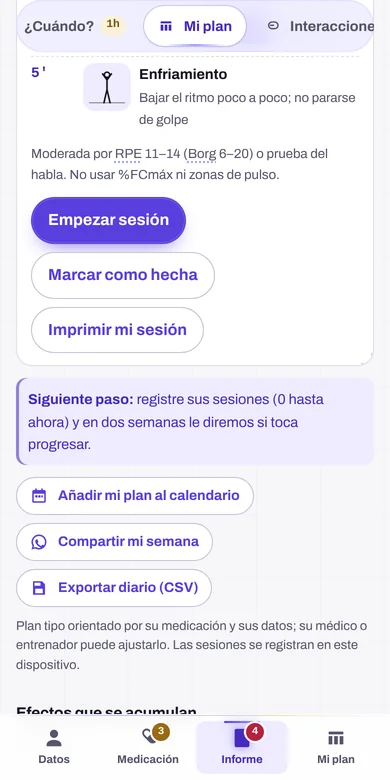
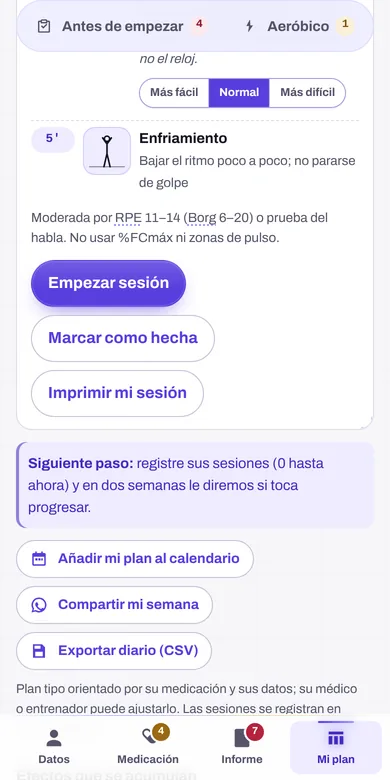
Barra inferior del movil marca bien la seccion visible; capturas de la guia y de la presentacion rehechas; version 202611210913
La pestana activa se elegia por proporcion visible y el informe, mucho mas
alto que los paneles, perdia: al pulsar Informe se marcaba Medicacion. Ahora
gana la seccion que cruza una franja en el centro de la pantalla.
Franja horaria de Hoy sin punto delante (va en una pildora con reloj).

Claude-Session: https://claude.ai/code/session_01WtVgh7xbR4kRDDh9Je2ank

Changed region(s): [[0.0308, 0.0, 0.9538, 0.9846], [0.6769, 0.0, 0.9538, 0.0615]]

diff --git a/app/js/app.js b/app/js/app.js
@@ -1,11 +1,11 @@
-import { construirIndice, buscar, evaluar, informeTexto, ORDEN_NIVEL, MOMENTOS, MOMENTO_TXT, HORA_MOMENTO, momentosPorDefecto, ventanaEntrenamiento, loEsencial, ALARMA, sintomasPosibles, SINTOMAS, sesionTipo, objetivoSemanal, rachaSemanas, progresion, planSemana, minutosPorSemana, compararListas, constantesRelevantes, chequeoPrevio, veredictoChequeo, SINTOMAS_ACSM, enfermedadSugerida, cribadoACSM, CRIBADO_TXT, nivelEvidencia, EVIDENCIA, seccionFT, comprobarCaso, zonaIntensidad, impactoPorFarmaco, puntuarSPPB, vivifrailDeSppb, evolucion, textoEvolucion } from "./engine.js?v=202611210540";
-import { APP_VERSION } from "./version.js?v=202611210540";
-import { extraerMedicacion, textoDePdf } from "./parser.js?v=202611210540";
-import { picto } from "./pictos.js?v=202611210540";
-import { pdfMedico, pdfPaciente, pdfEntrenador, pdfTarjeta, textoHistoria, prescripcion, listasVistazo, ritmoTexto, filasPlanPaciente, pdfEvolucion } from "./informes.js?v=202611210540";
-import { cargarScript } from "./libs.js?v=202611210540";
-import { textoDeImagen, textoDePdfEscaneado } from "./ocr.js?v=202611210540";
-import { t, aplicarIdioma, detectarIdioma, idioma } from "./i18n.js?v=202611210540";
+import { construirIndice, buscar, evaluar, informeTexto, ORDEN_NIVEL, MOMENTOS, MOMENTO_TXT, HORA_MOMENTO, momentosPorDefecto, ventanaEntrenamiento, loEsencial, ALARMA, sintomasPosibles, SINTOMAS, sesionTipo, objetivoSemanal, rachaSemanas, progresion, planSemana, minutosPorSemana, compararListas, constantesRelevantes, chequeoPrevio, veredictoChequeo, SINTOMAS_ACSM, enfermedadSugerida, cribadoACSM, CRIBADO_TXT, nivelEvidencia, EVIDENCIA, seccionFT, comprobarCaso, zonaIntensidad, impactoPorFarmaco, puntuarSPPB, vivifrailDeSppb, evolucion, textoEvolucion } from "./engine.js?v=202611210913";
+import { APP_VERSION } from "./version.js?v=202611210913";
+import { extraerMedicacion, textoDePdf } from "./parser.js?v=202611210913";
+import { picto } from "./pictos.js?v=202611210913";
+import { pdfMedico, pdfPaciente, pdfEntrenador, pdfTarjeta, textoHistoria, prescripcion, listasVistazo, ritmoTexto, filasPlanPaciente, pdfEvolucion } from "./informes.js?v=202611210913";
+import { cargarScript } from "./libs.js?v=202611210913";
+import { textoDeImagen, textoDePdfEscaneado } from "./ocr.js?v=202611210913";
+import { t, aplicarIdioma, detectarIdioma, idioma } from "./i18n.js?v=202611210913";
 
 // Si la hoja de estilos aún no ha llegado (los módulos se precargan en paralelo), esperar: así la primera maquetación ya es la definitiva y no hay saltos.
 await new Promise((ok) => { const l = document.querySelector('link[rel="stylesheet"]'); if (!l || l.sheet) ok(); else { l.addEventListener("load", ok, { once: true }); l.addEventListener("error", ok, { once: true }); setTimeout(ok, 4000); } });
@@ -803,12 +803,13 @@ new IntersectionObserver(([e]) => {
 // qué sección está a la vista → pestaña activa en la barra inferior
 {
   const vis = new Map();
+  // la sección que cruza una franja en el centro de la pantalla (la proporción visible engañaba con el informe, mucho más alto)
   const obs = new IntersectionObserver((es) => {
-    for (const e of es) vis.set(e.target.id, e.intersectionRatio);
-    const ordenado = [...vis.entries()].sort((a, b) => b[1] - a[1])[0];
-    if (!ordenado || !ordenado[1]) return;
-    marcarNav({ "panel-datos": "datos", "panel-medicacion": "medicacion", informe: estado.tab === "plan" && enInforme ? "plan" : "informe" }[ordenado[0]]);
-  }, { threshold: [0, .25, .5, .75, 1] });
+    for (const e of es) vis.set(e.target.id, e.isIntersecting);
+    const activa = ["informe", "panel-medicacion", "panel-datos"].find((id) => vis.get(id));
+    if (!activa) return;
+    marcarNav({ "panel-datos": "datos", "panel-medicacion": "medicacion", informe: estado.tab === "plan" && enInforme ? "plan" : "informe" }[activa]);
+  }, { rootMargin: "-45% 0px -50% 0px" });
   for (const id of ["panel-datos", "panel-medicacion", "informe"]) { const el = document.getElementById(id); if (el) obs.observe(el); }
 }
 

diff --git a/app/index.html b/app/index.html
@@ -58,18 +58,18 @@
 }
 </script>
 <link rel="preload" href="assets/fonts/Archivo-latin.woff2" as="font" type="font/woff2" crossorigin>
-<link rel="modulepreload" href="js/version.js?v=202611210540">
-<link rel="modulepreload" href="js/libs.js?v=202611210540">
-<link rel="modulepreload" href="js/i18n.js?v=202611210540">
-<link rel="modulepreload" href="js/pictos.js?v=202611210540">
-<link rel="modulepreload" href="js/engine.js?v=202611210540">
-<link rel="modulepreload" href="js/parser.js?v=202611210540">
-<link rel="modulepreload" href="js/informes.js?v=202611210540">
-<link rel="modulepreload" href="js/ocr.js?v=202611210540">
+<link rel="modulepreload" href="js/version.js?v=202611210913">
+<link rel="modulepreload" href="js/libs.js?v=202611210913">
+<link rel="modulepreload" href="js/i18n.js?v=202611210913">
+<link rel="modulepreload" href="js/pictos.js?v=202611210913">
+<link rel="modulepreload" href="js/engine.js?v=202611210913">
+<link rel="modulepreload" href="js/parser.js?v=202611210913">
+<link rel="modulepreload" href="js/informes.js?v=202611210913">
+<link rel="modulepreload" href="js/ocr.js?v=202611210913">
 <link rel="preload" href="data/kb.json" as="fetch" crossorigin>
 <link rel="preload" href="data/ddi_curated.json" as="fetch" crossorigin>
 <meta name="theme-color" content="#140B3A">
-<link rel="stylesheet" href="css/style.css?v=202611210540">
+<link rel="stylesheet" href="css/style.css?v=202611210913">
 </head>
 <body class="cargando" data-modo="paciente">
 
@@ -403,6 +403,6 @@
   <button type="button" data-ir="plan" data-ic="plan"><span data-i18n="nav.plan">Mi plan</span><b class="nav-badge" hidden></b></button>
 </nav>
 
-<script type="module" src="js/app.js?v=202611210540"></script>
+<script type="module" src="js/app.js?v=202611210913"></script>
 </body>
 </html>

diff --git a/app/guia.html b/app/guia.html
@@ -53,7 +53,7 @@
           <li>Si tiene 5 minutos, el <strong>test SPPB guiado</strong> mide su forma física y ajusta el plan.</li>
         </ul>
       </div>
-      <figure><img src="assets/guia/1-datos.webp" alt="Panel de datos básicos con edad, pulso en reposo, caídas y situación clínica" width="640" height="1815" loading="lazy"><figcaption>Datos básicos, con la ayuda «?» en cada apartado.</figcaption></figure>
+      <figure><img src="assets/guia/1-datos.webp" alt="Panel de datos básicos con edad, pulso en reposo, caídas y situación clínica" width="640" height="1850" loading="lazy"><figcaption>Datos básicos, con la ayuda «?» en cada apartado.</figcaption></figure>
     </li>
     <li class="paso-guia">
       <div>
@@ -64,7 +64,7 @@
           <li>Puede editar la dosis, pausar un medicamento o quitarlo; siempre hay «Deshacer».</li>
         </ul>
       </div>
-      <figure><img src="assets/guia/2-buscar.webp" alt="Buscador de medicamentos con sugerencias y añadido rápido" width="640" height="1223" loading="lazy"><figcaption>Buscar por nombre y añadir con la dosis.</figcaption></figure>
+      <figure><img src="assets/guia/2-buscar.webp" alt="Buscador de medicamentos con sugerencias y añadido rápido" width="640" height="1489" loading="lazy"><figcaption>Buscar por nombre y añadir con la dosis.</figcaption></figure>
     </li>
     <li class="paso-guia">
       <div>

diff --git a/app/js/informes.js b/app/js/informes.js
@@ -1,8 +1,8 @@
 /* Resúmenes en PDF (jsPDF, global window.jspdf).
    Dos documentos: "Informe clínico" para el médico y "Su plan" para el paciente.
    Sistema de maquetación propio: cabecera, bandas, tablas con zebra, tarjetas con acento, pastillas de nivel. */
-import { jspdf, cargarScript } from "./libs.js?v=202611210540";
-import { ORDEN_NIVEL, ORDEN_DDI, MOMENTO_TXT, loEsencial, ALARMA, PLAN_SEMANA, sesionTipo, planSemana, textoEvolucion, SINTOMAS } from "./engine.js?v=202611210540";
+import { jspdf, cargarScript } from "./libs.js?v=202611210913";
+import { ORDEN_NIVEL, ORDEN_DDI, MOMENTO_TXT, loEsencial, ALARMA, PLAN_SEMANA, sesionTipo, planSemana, textoEvolucion, SINTOMAS } from "./engine.js?v=202611210913";
 
 const AUTOR = "Dr. Pelayo Fdez. Cidón · Medicina Interna · prescriptor de ejercicio físico";
 const MARCA = "Fuerza Basada en Evidencia";

diff --git a/app/sw.js b/app/sw.js
@@ -1,7 +1,7 @@
 /* Service worker: la aplicación y la base de conocimiento funcionan sin conexión.
    El nombre de la caché cambia con cada despliegue (scripts/bump_version.py lo sella), de modo que
    una versión nueva se descarga en segundo plano y se activa cuando el usuario pulsa "Actualizar". */
-const VERSION = "202611210540";
+const VERSION = "202611210913";
 const CACHE = "medex-" + VERSION;
 const APP = ["./", "index.html", "novedades.html", "acerca.html", "manifest.webmanifest", "css/style.css", "js/app.js", "js/engine.js", "js/parser.js", "js/informes.js", "js/pictos.js", "js/ocr.js", "js/libs.js", "js/i18n.js", "js/version.js",
   "data/kb.json", "data/ddi_curated.json", "data/ddi.json", "data/marcas.json",

diff --git a/app/js/parser.js b/app/js/parser.js
@@ -1,6 +1,6 @@
 /* Reconocimiento de medicación en texto libre (lista pegada o texto extraído de un PDF). */
-import { pdfjs } from "./libs.js?v=202611210540";
-import { normalizar } from "./engine.js?v=202611210540";
+import { pdfjs } from "./libs.js?v=202611210913";
+import { normalizar } from "./engine.js?v=202611210913";
 
 let catalogo = null; // [{norm, pid, tipo, dosis, unidad}] ordenado por longitud desc
 

diff --git a/app/js/ocr.js b/app/js/ocr.js
@@ -1,5 +1,5 @@
 /* OCR en el navegador con Tesseract.js (se carga bajo demanda; el modelo en español se descarga la primera vez). */
-import { tesseract, pdfjs } from "./libs.js?v=202611210540";
+import { tesseract, pdfjs } from "./libs.js?v=202611210913";
 const LANG_PATH = "https://tessdata.projectnaptha.com/4.0.0_fast";
 
 let worker = null;
